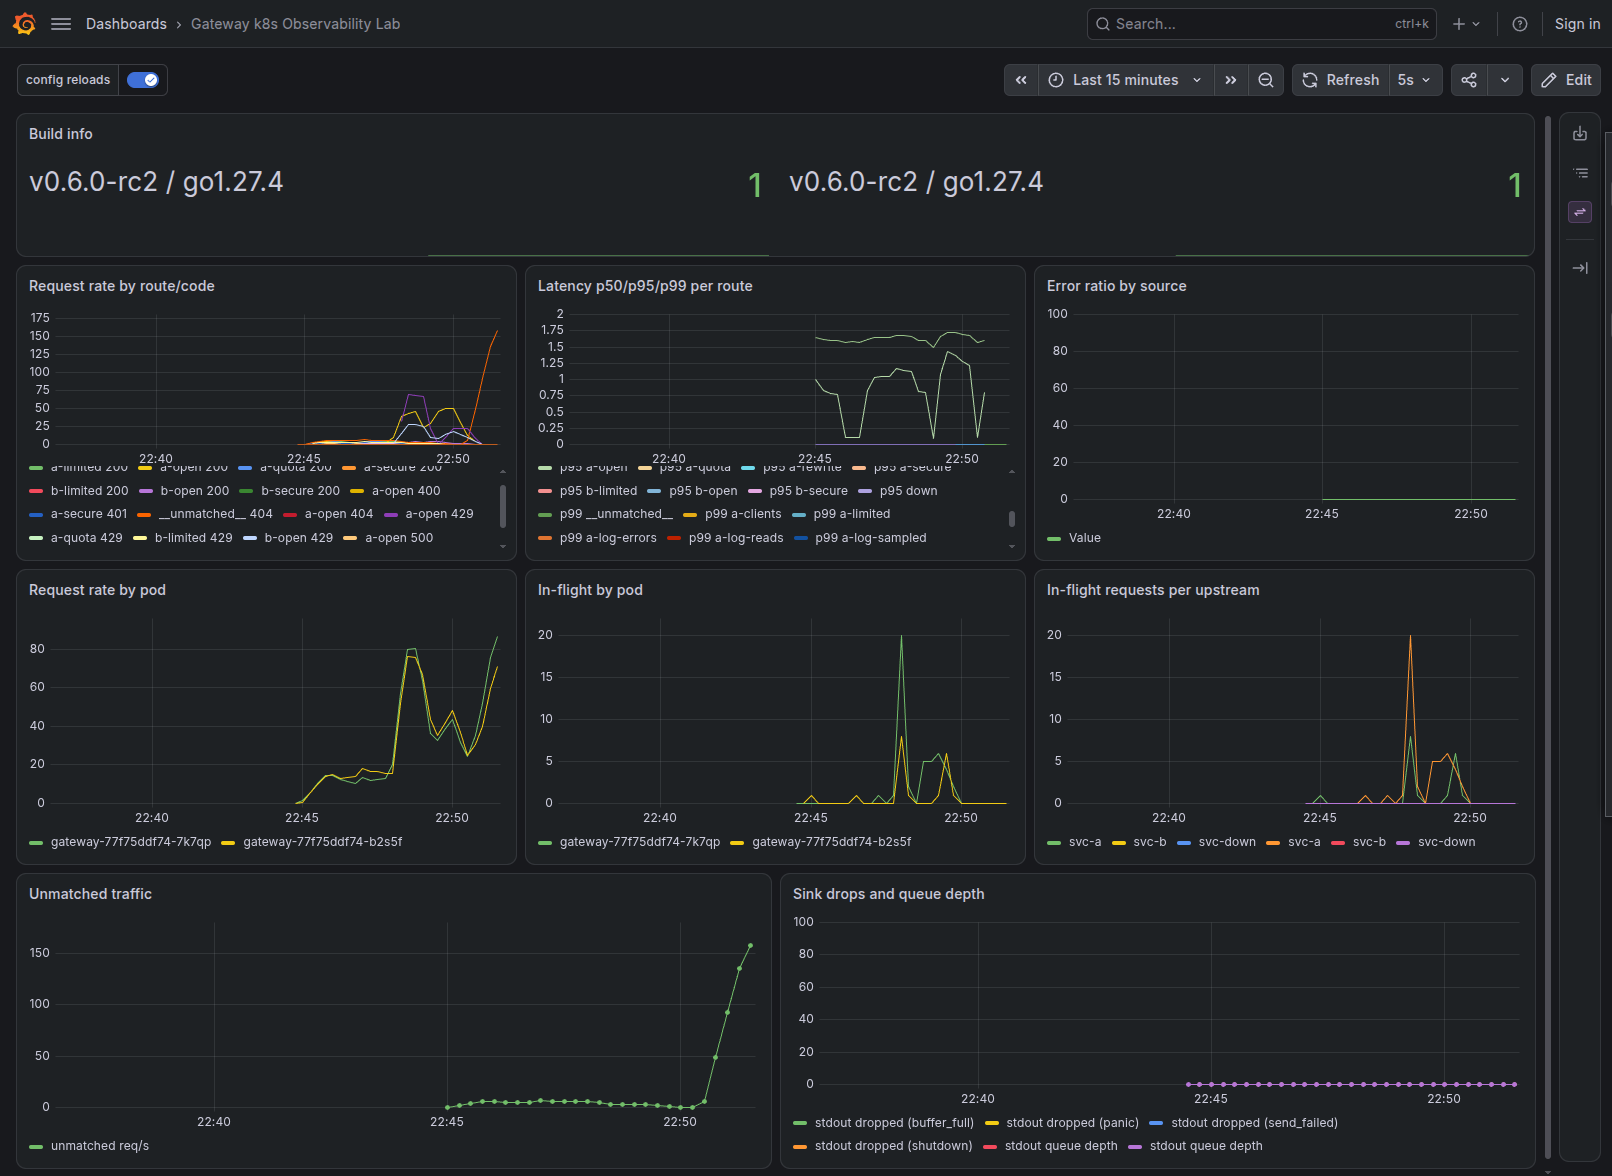
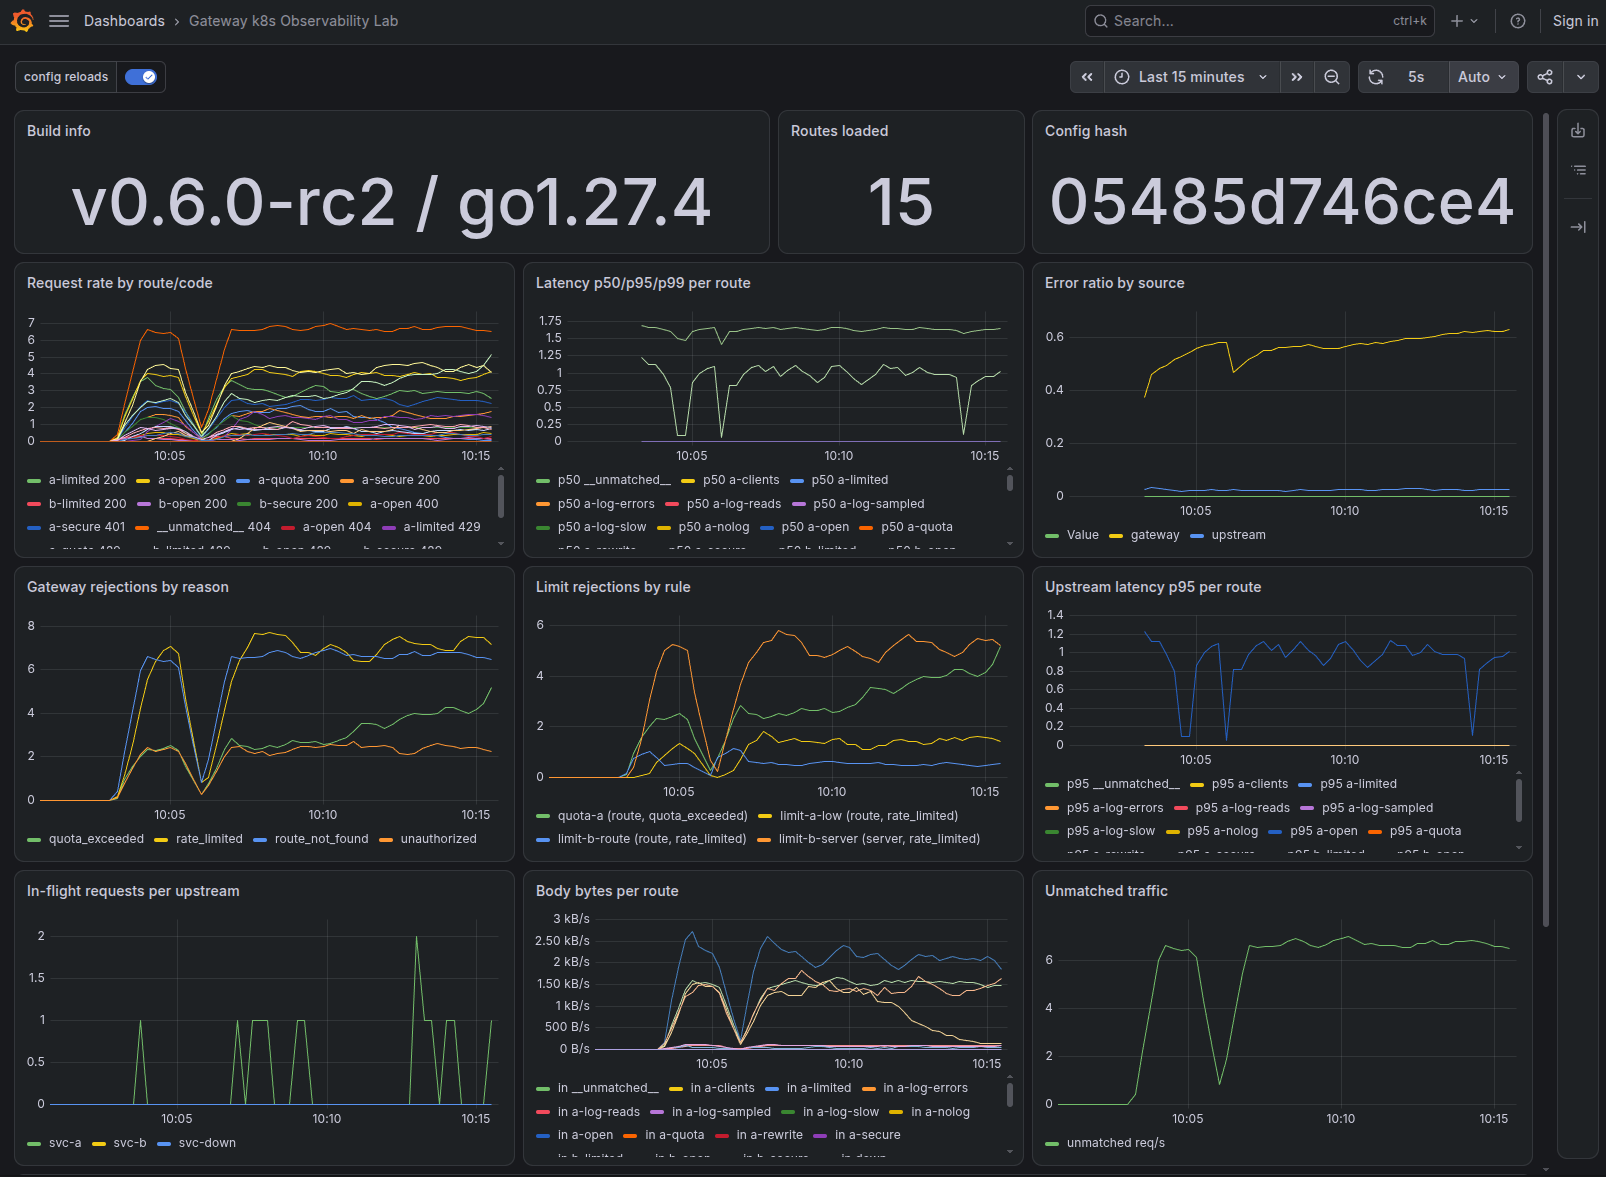
add v0.6.0 release info and fixes for public lab

diff --git a/lab/config/locustfile.py b/lab/config/locustfile.py
@@ -83,7 +83,8 @@ class RateLimitUser(FastHttpUser):
     noisy = clients[:3]
 
     def client_id(self) -> str:
-        return random.choice(self.noisy * 3 + self.clients)  # noisy ones get more weight
+        # the 3 noisy clients get ~half the traffic, enough to hit limit-a-low and quota-a
+        return random.choice(self.noisy * 10 + self.clients)
 
     def call(self, path: str, **headers):
         with self.client.get(path, headers=headers, catch_response=True) as r:
@@ -114,7 +115,11 @@ class AuthUser(FastHttpUser):
     @task(4)
     def valid(self):
         self.client.get("/a/secure/get", headers={"Authorization": f"Bearer {self.hs256}"})
-        self.client.get("/b/secure/version", headers={"X-Auth-Token": self.hs512})
+        # svc-b has a server-wide limit (50/min), so 429 is expected
+        with self.client.get("/b/secure/version", headers={"X-Auth-Token": self.hs512},
+                             catch_response=True) as r:
+            if r.status_code == 429:
+                r.success()
 
     @task(3)
     def missing(self):
@@ -141,13 +146,3 @@ class ScannerUser(FastHttpUser):
         with self.client.get(path, name="scanner", catch_response=True) as r:
             r.success()
 
-
-class CardinalityUser(FastHttpUser):
-    """Random paths and client ids, to stress the unique-path/caller metrics."""
-    wait_time = between(0.05, 0.2)
-
-    @task
-    def random_path(self):
-        with self.client.get("/" + rand(12), name="random", headers={"X-Client-Id": rand(12)},
-                             catch_response=True) as r:
-            r.success()

diff --git a/releases/v0.6.0-beta.md b/releases/v0.6.0-beta.md
@@ -1,0 +1,60 @@
+# v0.6.0-beta
+
+Released 2026-11-22
+
+A rework of the metrics system, more detail in the access log about limits, auth and upstreams, and fixes for idle timeouts, request IDs and config reloads.
+
+## Breaking and behavior changes
+
+The metrics system was reworked to fix behavior that was never intended and to make the results more accurate and easier to use. Metrics are now chosen by group, families that gave misleading or redundant data were removed or replaced, and some series now report more reliable values. Check your dashboards and alerts against the changes below.
+
+- **`--sPrometheusMetrics` now selects metric groups, not single families.** The groups are `requests`, `streams`, `auth`, `dependencies`, `access_log`, `gateway` and `usage_control`, and the presets are `core` and `all`. Every family in a selected group is always on. An unknown name is rejected, and the error lists the valid groups.
+- **An empty `--sPrometheusMetrics` now means `core`.** Before, it meant no series.
+- **Removed metric families:**
+  - `gw_request_size_bytes` and `gw_response_size_bytes`. Use the new counters `gw_request_bytes_total` and `gw_response_bytes_total`, labelled `route` and `upstream`. A request or response with an unknown size is not counted.
+  - `gw_upstream_last_success_timestamp_seconds`
+  - `gw_sink_events_total` and `gw_sink_last_write_seconds`
+- **`gw_unique_callers` and `gw_unique_caller_ips` now report the last completed window**, so they show full counts instead of a window that is still filling up. They no longer have a `window` label (the HELP text states the window), and they don't appear until their first window completes.
+
+## New features
+
+- **`gw_limit_rejections_total{rule,scope,kind}`** in the `usage_control` group counts requests refused by usage control. A rule removed by a config reload loses its series once the old config has drained.
+- **New access log fields:** `limit_reason`, `limit_rule`, `limit_scope`, `dependency_state`, `auth_result`, `upstream_path` and `grpc_status_name` (`grpc_status` is kept). The stdout sink has the same fields.
+
+Check all available options in the [documentation](https://nocleye.com/docs/).
+
+## Fixes
+
+- **Idle timeouts now wait the full configured time.** Active gRPC, WebSocket and HTTP connections could be closed too early. For example, a 5s idle timeout with activity every 4s closed the connection after about 12s.
+- **The `X-Nocleye-Request-Id` response header and metric exemplars now always show the request's own ID.** Before, they could show a wrong or garbled ID.
+- **Routes removed by a config reload no longer appear in `gw_unique_callers` and `gw_unique_caller_ips`.** A route that only changes its upstream or auth method keeps its count.
+- **Config reloads now retire the previous config cleanly.** Its shutdown steps run once, and its metrics no longer show up after the new config takes over.
+
+## Docker image
+Tags: `v0.6.0-beta`, `latest` (`latest` moves with every release).
+Registry: [Docker Hub `nocleye/api-gateway`](https://hub.docker.com/r/nocleye/api-gateway)
+
+```sh
+docker pull nocleye/api-gateway:v0.6.0-beta
+```
+
+| File | Signature |
+|---|---|
+| [Digests](https://releases.nocleye.com/api-gateway/v0.6.0-beta/image/nocleye-api-gateway-image-v0.6.0-beta.digests) | [.asc](https://releases.nocleye.com/api-gateway/v0.6.0-beta/image/nocleye-api-gateway-image-v0.6.0-beta.digests.asc) |
+| [SBOM linux/amd64](https://releases.nocleye.com/api-gateway/v0.6.0-beta/image/nocleye-api-gateway-image-v0.6.0-beta-linux-amd64.spdx.json) | [.asc](https://releases.nocleye.com/api-gateway/v0.6.0-beta/image/nocleye-api-gateway-image-v0.6.0-beta-linux-amd64.spdx.json.asc) |
+| [SBOM linux/arm64](https://releases.nocleye.com/api-gateway/v0.6.0-beta/image/nocleye-api-gateway-image-v0.6.0-beta-linux-arm64.spdx.json) | [.asc](https://releases.nocleye.com/api-gateway/v0.6.0-beta/image/nocleye-api-gateway-image-v0.6.0-beta-linux-arm64.spdx.json.asc) |
+
+## Binaries
+
+| Platform | Archive | Signature | SBOM | SBOM signature |
+|---|---|---|---|---|
+| Linux x86-64 | [tar.gz](https://releases.nocleye.com/api-gateway/v0.6.0-beta/linux-amd64/nocleye-api-gateway-v0.6.0-beta-linux-amd64.tar.gz) | [.asc](https://releases.nocleye.com/api-gateway/v0.6.0-beta/linux-amd64/nocleye-api-gateway-v0.6.0-beta-linux-amd64.tar.gz.asc) | [spdx.json](https://releases.nocleye.com/api-gateway/v0.6.0-beta/linux-amd64/nocleye-api-gateway-v0.6.0-beta-linux-amd64.spdx.json) | [.asc](https://releases.nocleye.com/api-gateway/v0.6.0-beta/linux-amd64/nocleye-api-gateway-v0.6.0-beta-linux-amd64.spdx.json.asc) |
+| Linux ARM64 | [tar.gz](https://releases.nocleye.com/api-gateway/v0.6.0-beta/linux-arm64/nocleye-api-gateway-v0.6.0-beta-linux-arm64.tar.gz) | [.asc](https://releases.nocleye.com/api-gateway/v0.6.0-beta/linux-arm64/nocleye-api-gateway-v0.6.0-beta-linux-arm64.tar.gz.asc) | [spdx.json](https://releases.nocleye.com/api-gateway/v0.6.0-beta/linux-arm64/nocleye-api-gateway-v0.6.0-beta-linux-arm64.spdx.json) | [.asc](https://releases.nocleye.com/api-gateway/v0.6.0-beta/linux-arm64/nocleye-api-gateway-v0.6.0-beta-linux-arm64.spdx.json.asc) |
+| macOS x86-64 | [tar.gz](https://releases.nocleye.com/api-gateway/v0.6.0-beta/darwin-amd64/nocleye-api-gateway-v0.6.0-beta-darwin-amd64.tar.gz) | [.asc](https://releases.nocleye.com/api-gateway/v0.6.0-beta/darwin-amd64/nocleye-api-gateway-v0.6.0-beta-darwin-amd64.tar.gz.asc) | [spdx.json](https://releases.nocleye.com/api-gateway/v0.6.0-beta/darwin-amd64/nocleye-api-gateway-v0.6.0-beta-darwin-amd64.spdx.json) | [.asc](https://releases.nocleye.com/api-gateway/v0.6.0-beta/darwin-amd64/nocleye-api-gateway-v0.6.0-beta-darwin-amd64.spdx.json.asc) |
+| macOS ARM64 | [tar.gz](https://releases.nocleye.com/api-gateway/v0.6.0-beta/darwin-arm64/nocleye-api-gateway-v0.6.0-beta-darwin-arm64.tar.gz) | [.asc](https://releases.nocleye.com/api-gateway/v0.6.0-beta/darwin-arm64/nocleye-api-gateway-v0.6.0-beta-darwin-arm64.tar.gz.asc) | [spdx.json](https://releases.nocleye.com/api-gateway/v0.6.0-beta/darwin-arm64/nocleye-api-gateway-v0.6.0-beta-darwin-arm64.spdx.json) | [.asc](https://releases.nocleye.com/api-gateway/v0.6.0-beta/darwin-arm64/nocleye-api-gateway-v0.6.0-beta-darwin-arm64.spdx.json.asc) |
+
+## Signing key
+
+[nocleye.asc](https://releases.nocleye.com/api-gateway/v0.6.0-beta/nocleye.asc)
+
+For the verification steps, see [downloads and verification](https://nocleye.com/docs/releases/).

diff --git a/lab/README.md b/lab/README.md
@@ -1,9 +1,3 @@
-# Under construction while validating RC
-## This setup was made by Claude in a single prompt and I didn't review in detail, if you found some crap bug, you can fix it locally or wait for me to finish :)
-
-![Grafana](./screenshot.png  "a title")
-
-
 # k8s lab
 
 A local k3d cluster running a published gateway image in front of two apps. Prometheus
@@ -12,14 +6,19 @@ directly; there's no dashboard/control plane.
 
 | app | role | notes |
 |---|---|---|
-| `gateway` | 2 replicas | public `8080`, support `8081` (`/metrics`, `/healthz`, `/readyz`, token `lab-token`) |
+| `gateway` | 1 replica, `core` metrics | public `8080`, support `8081` (`/metrics`, `/healthz`, `/readyz`, token `lab-token`) |
 | `httpbin` ([go-httpbin](https://github.com/mccutchen/go-httpbin)) | `svc-a`, plain HTTP | `/status/{code}`, `/delay/{300ms}`, `/unstable`, `/headers`, `/get` |
 | `podinfo` ([podinfo](https://github.com/stefanprodan/podinfo)) | `svc-b`, TLS | cert issued by an in-cluster CA, verified by the gateway |
 | [cert-manager](https://cert-manager.io) | TLS | self-signed root -> `lab-ca` issuer -> `podinfo-tls` secret (`manifests/certs.yaml`) |
-| `prometheus` | scrapes every gateway pod | pod discovery, `pod`/`node` labels |
-| `grafana` | anonymous admin | "Gateway k8s Observability Lab" dashboard |
+| `prometheus` | scrapes the gateway pod | pod discovery, `pod`/`node` labels |
+| `grafana` | anonymous admin | "Gateway k8s Observability Lab" dashboard, core metrics only (no stream, JWKS or dependency panels: the lab has no traffic for them) |
+
+## Grafana dashboard sample
+![Grafana](./screenshot.png  "a title")
 
 ## Run
+
+### **It Requires [k3d installed!](https://k3d.io/v5.9.0/)** 
 
 ```sh
 up.sh                                   # create cluster + deploy (re-run to re-apply)
@@ -42,13 +41,12 @@ summary when done. JWTs for the auth routes are signed with PyJWT using the
 same keys as the gateway.
 
 ```sh
-traffic.sh                                  # 20 users, 60s, all but CardinalityUser
+traffic.sh                                  # 20 users, 60s, all classes
 traffic.sh -t 2m AuthUser RateLimitUser
 traffic.sh -u 300 -r 100 -t 30s SteadyUser  # spike
-traffic.sh CardinalityUser
 ```
 
-Classes: `SteadyUser`, `ErrorsUser`, `RateLimitUser`, `AuthUser`, `ScannerUser`, `CardinalityUser`.
+Classes: `SteadyUser`, `ErrorsUser`, `RateLimitUser`, `AuthUser`, `ScannerUser`.
 
 ## Layout
 

diff --git a/README.md b/README.md
@@ -36,7 +36,7 @@ The gateway is under heavy change and we are aiming for a stable release in a fe
 
 ## Get it
 
-Latest: **v0.5.0-beta** (2026-11-15)
+Latest: **v0.6.0-beta** (2026-11-22)
 
 | | |
 |---|---|
@@ -47,6 +47,7 @@ Latest: **v0.5.0-beta** (2026-11-15)
 
 - [`releases/`](releases/): release notes and links to artifacts.
 - [`examples/`](examples/): usage examples.
+- [`lab/`](lab/): a local Kubernetes (k3d) lab: the gateway in front of two sample apps, with Prometheus, a Grafana dashboard and Locust traffic scenarios.
 - Utilities for working with the binaries and images will be added here as they are ready.
 
 ## Contact

diff --git a/releases/README.md b/releases/README.md
@@ -4,6 +4,7 @@ Release notes and links to the artifacts (binaries, Docker image, SBOMs and sign
 
 | Version | Date | Notes and artifacts |
 |---|---|---|
+| v0.6.0-beta | 2026-11-22 | [v0.6.0-beta.md](v0.6.0-beta.md) |
 | v0.5.0-beta | 2026-11-15 | [v0.5.0-beta.md](v0.5.0-beta.md) |
 | v0.4.0-beta | 2026-11-08 | [v0.4.0-beta.md](v0.4.0-beta.md) |
 | v0.3.0-beta | 2026-11-01 | [v0.3.0-beta.md](v0.3.0-beta.md) |
